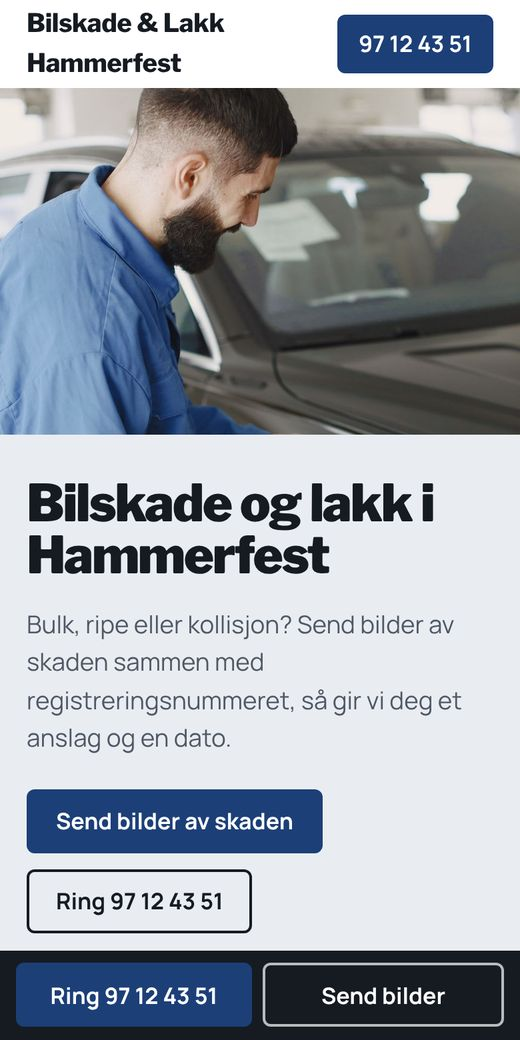
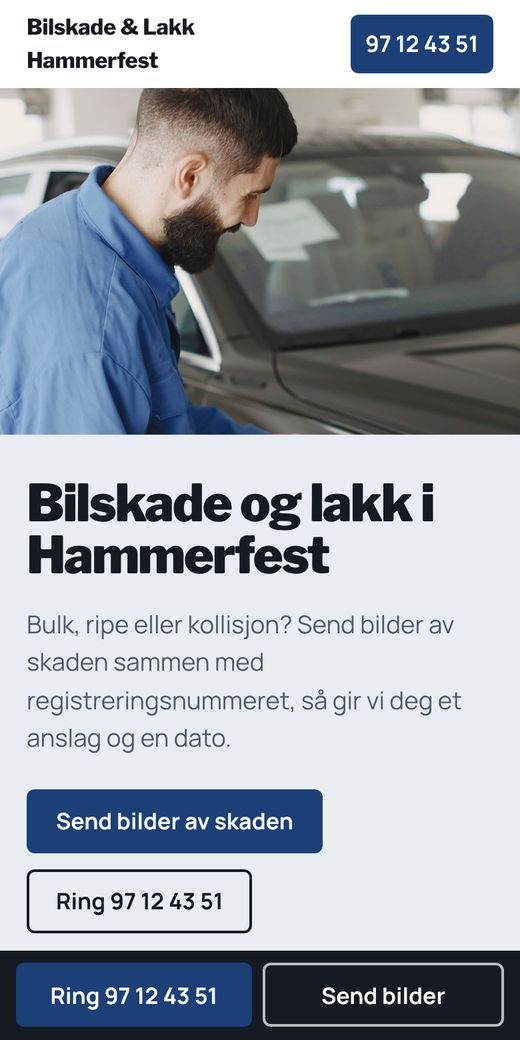
Norske nettsider: små justeringer for smale skjermer

Changed region(s): [[0.0615, 0.0, 0.4308, 0.0923], [0.6462, 0.0, 0.9231, 0.0923]]

diff --git a/no/bilskadehammerfest/index.html b/no/bilskadehammerfest/index.html
@@ -76,6 +76,8 @@ textarea{resize:vertical;min-height:110px}
   .foot{padding-bottom:calc(2rem + 4.75rem + env(safe-area-inset-bottom)) !important}
 }
 @media (max-width:420px){.req-form{padding:1.1rem}}
+.callbar a{white-space:nowrap}
+@media (max-width:374px){.callbar{gap:.4rem;padding-left:.5rem;padding-right:.5rem}.callbar a{font-size:.9rem;padding:0 .3rem}}
 
 
 :root{--bg:#ffffff;--ink:#161b22;--ink2:#4f5864;--acc:#1c3f78;--acc-ink:#fff;--steel:#e9edf2;--line:#d6dce4;--focus:#1c3f78;--send:#1c3f78;--chip-on:#1c3f78;--head:'Libre Franklin',sans-serif;--body:'Manrope',sans-serif;--bar-bg:#161b22;--r-btn:6px;--r-chip:6px;--r-box:8px}
@@ -125,7 +127,7 @@ textarea{resize:vertical;min-height:110px}
  .svc .wrap,.req-grid,.contact .wrap{grid-template-columns:1fr;gap:1.5rem}
  .svc img{height:260px}
 }
-@media (max-width:400px){.contact span{display:block;width:auto}}
+@media (max-width:400px){.contact span{display:block;width:auto}.brand{font-size:1.02rem}.top-call{padding:0 .7rem}}
 
 </style>
 </head>

diff --git a/no/uvdalel/index.html b/no/uvdalel/index.html
@@ -75,6 +75,8 @@ textarea{resize:vertical;min-height:110px}
   .foot{padding-bottom:calc(2rem + 4.75rem + env(safe-area-inset-bottom)) !important}
 }
 @media (max-width:420px){.req-form{padding:1.1rem}}
+.callbar a{white-space:nowrap}
+@media (max-width:374px){.callbar{gap:.4rem;padding-left:.5rem;padding-right:.5rem}.callbar a{font-size:.9rem;padding:0 .3rem}}
 
 
 :root{--bg:#ffffff;--ink:#1d2622;--ink2:#4f5c56;--acc:#e3a72f;--acc-ink:#1d2622;--line:#d9dfdb;--spruce:#1f3b30;--focus:#1f3b30;--send:#1f3b30;--chip-on:#1f3b30;--head:'Red Hat Display',sans-serif;--body:'Red Hat Text',sans-serif;--bar-bg:#1f3b30;--r-btn:999px;--r-chip:999px;--r-box:14px}

diff --git a/no/veanbil/index.html b/no/veanbil/index.html
@@ -75,6 +75,8 @@ textarea{resize:vertical;min-height:110px}
   .foot{padding-bottom:calc(2rem + 4.75rem + env(safe-area-inset-bottom)) !important}
 }
 @media (max-width:420px){.req-form{padding:1.1rem}}
+.callbar a{white-space:nowrap}
+@media (max-width:374px){.callbar{gap:.4rem;padding-left:.5rem;padding-right:.5rem}.callbar a{font-size:.9rem;padding:0 .3rem}}
 
 
 :root{--bg:#f0f0ee;--ink:#1c1e21;--ink2:#53575c;--acc:#f2b705;--acc-ink:#1c1e21;--line:#d4d4d0;--focus:#1c1e21;--send:#1c1e21;--chip-on:#1c1e21;--head:'Saira Condensed',sans-serif;--body:'Public Sans',sans-serif;--bar-bg:#1c1e21;--r-btn:2px;--r-chip:2px;--r-box:2px}

diff --git a/no/sandvoldmaler/index.html b/no/sandvoldmaler/index.html
@@ -74,6 +74,8 @@ textarea{resize:vertical;min-height:110px}
   .foot{padding-bottom:calc(2rem + 4.75rem + env(safe-area-inset-bottom)) !important}
 }
 @media (max-width:420px){.req-form{padding:1.1rem}}
+.callbar a{white-space:nowrap}
+@media (max-width:374px){.callbar{gap:.4rem;padding-left:.5rem;padding-right:.5rem}.callbar a{font-size:.9rem;padding:0 .3rem}}
 
 
 :root{--bg:#ffffff;--ink:#1e2b26;--ink2:#52605a;--acc:#2c5f55;--acc-ink:#fff;--line:#dfe5e2;--focus:#2c5f55;--send:#2c5f55;--chip-on:#2c5f55;--head:'Bricolage Grotesque',sans-serif;--body:'Figtree',sans-serif;--bar-bg:#1e2b26;--r-btn:8px;--r-chip:8px;--r-box:12px}

diff --git a/no/hegrabygg/index.html b/no/hegrabygg/index.html
@@ -75,6 +75,8 @@ textarea{resize:vertical;min-height:110px}
   .foot{padding-bottom:calc(2rem + 4.75rem + env(safe-area-inset-bottom)) !important}
 }
 @media (max-width:420px){.req-form{padding:1.1rem}}
+.callbar a{white-space:nowrap}
+@media (max-width:374px){.callbar{gap:.4rem;padding-left:.5rem;padding-right:.5rem}.callbar a{font-size:.9rem;padding:0 .3rem}}
 
 
 :root{--bg:#ffffff;--ink:#203329;--ink2:#526158;--acc:#2f5a43;--acc-ink:#fff;--wood:#d8b07a;--line:#dde3df;--focus:#2f5a43;--send:#2f5a43;--chip-on:#203329;--head:'Spectral',serif;--body:'Alegreya Sans',sans-serif;--bar-bg:#203329;--r-btn:4px;--r-chip:4px}

diff --git a/no/rorosblikk/index.html b/no/rorosblikk/index.html
@@ -75,6 +75,8 @@ textarea{resize:vertical;min-height:110px}
   .foot{padding-bottom:calc(2rem + 4.75rem + env(safe-area-inset-bottom)) !important}
 }
 @media (max-width:420px){.req-form{padding:1.1rem}}
+.callbar a{white-space:nowrap}
+@media (max-width:374px){.callbar{gap:.4rem;padding-left:.5rem;padding-right:.5rem}.callbar a{font-size:.9rem;padding:0 .3rem}}
 
 
 :root{--bg:#fbfbfa;--ink:#24282b;--ink2:#565e64;--acc:#8c4a24;--acc-ink:#fff;--zinc:#5f6b72;--line:#dcdfe0;--focus:#8c4a24;--send:#8c4a24;--chip-on:#24282b;--head:'Zilla Slab',serif;--body:'Work Sans',sans-serif;--bar-bg:#24282b;--r-btn:3px;--r-chip:3px}

diff --git a/no/nordmaling/index.html b/no/nordmaling/index.html
@@ -74,6 +74,8 @@ textarea{resize:vertical;min-height:110px}
   .foot{padding-bottom:calc(2rem + 4.75rem + env(safe-area-inset-bottom)) !important}
 }
 @media (max-width:420px){.req-form{padding:1.1rem}}
+.callbar a{white-space:nowrap}
+@media (max-width:374px){.callbar{gap:.4rem;padding-left:.5rem;padding-right:.5rem}.callbar a{font-size:.9rem;padding:0 .3rem}}
 
 
 :root{--bg:#f5f6f8;--ink:#141c2b;--ink2:#4e5767;--acc:#2747a8;--acc-ink:#fff;--line:#d8dce4;--focus:#2747a8;--send:#2747a8;--chip-on:#141c2b;--head:'Archivo',sans-serif;--body:'Archivo',sans-serif;--bar-bg:#141c2b;--r-btn:0;--r-chip:0;--r-box:0}

diff --git a/no/baatsfjordror/index.html b/no/baatsfjordror/index.html
@@ -73,6 +73,8 @@ textarea{resize:vertical;min-height:110px}
   .foot{padding-bottom:calc(2rem + 4.75rem + env(safe-area-inset-bottom)) !important}
 }
 @media (max-width:420px){.req-form{padding:1.1rem}}
+.callbar a{white-space:nowrap}
+@media (max-width:374px){.callbar{gap:.4rem;padding-left:.5rem;padding-right:.5rem}.callbar a{font-size:.9rem;padding:0 .3rem}}
 
 
 :root{--bg:#eef3f5;--ink:#102a3c;--ink2:#46596a;--acc:#d2541f;--acc-ink:#fff;--line:#cdd8de;--focus:#d2541f;--send:#102a3c;--chip-on:#102a3c;--head:'Titillium Web',sans-serif;--body:'Titillium Web',sans-serif;--bar-bg:#102a3c;--r-btn:3px}

diff --git a/no/lillesandvvs/index.html b/no/lillesandvvs/index.html
@@ -75,6 +75,8 @@ textarea{resize:vertical;min-height:110px}
   .foot{padding-bottom:calc(2rem + 4.75rem + env(safe-area-inset-bottom)) !important}
 }
 @media (max-width:420px){.req-form{padding:1.1rem}}
+.callbar a{white-space:nowrap}
+@media (max-width:374px){.callbar{gap:.4rem;padding-left:.5rem;padding-right:.5rem}.callbar a{font-size:.9rem;padding:0 .3rem}}
 
 
 :root{--bg:#fbfcfc;--ink:#14262d;--ink2:#4c5b60;--acc:#f0c33c;--acc-ink:#14262d;--line:#d5dcdd;--sea:#0d4556;--focus:#0d4556;--send:#0d4556;--chip-on:#0d4556;--head:'Saira',sans-serif;--body:'Source Sans 3',sans-serif;--bar-bg:#0d4556}

diff --git a/no/stiglind/index.html b/no/stiglind/index.html
@@ -76,6 +76,8 @@ textarea{resize:vertical;min-height:110px}
   .foot{padding-bottom:calc(2rem + 4.75rem + env(safe-area-inset-bottom)) !important}
 }
 @media (max-width:420px){.req-form{padding:1.1rem}}
+.callbar a{white-space:nowrap}
+@media (max-width:374px){.callbar{gap:.4rem;padding-left:.5rem;padding-right:.5rem}.callbar a{font-size:.9rem;padding:0 .3rem}}
 
 
 :root{--bg:#f3f5f6;--ink:#18232b;--ink2:#4d5a63;--acc:#a8322a;--acc-ink:#fff;--line:#d3d9dd;--focus:#a8322a;--send:#a8322a;--chip-on:#18232b;--head:'Barlow Condensed',sans-serif;--body:'Barlow',sans-serif;--bar-bg:#18232b;--r-btn:2px}
